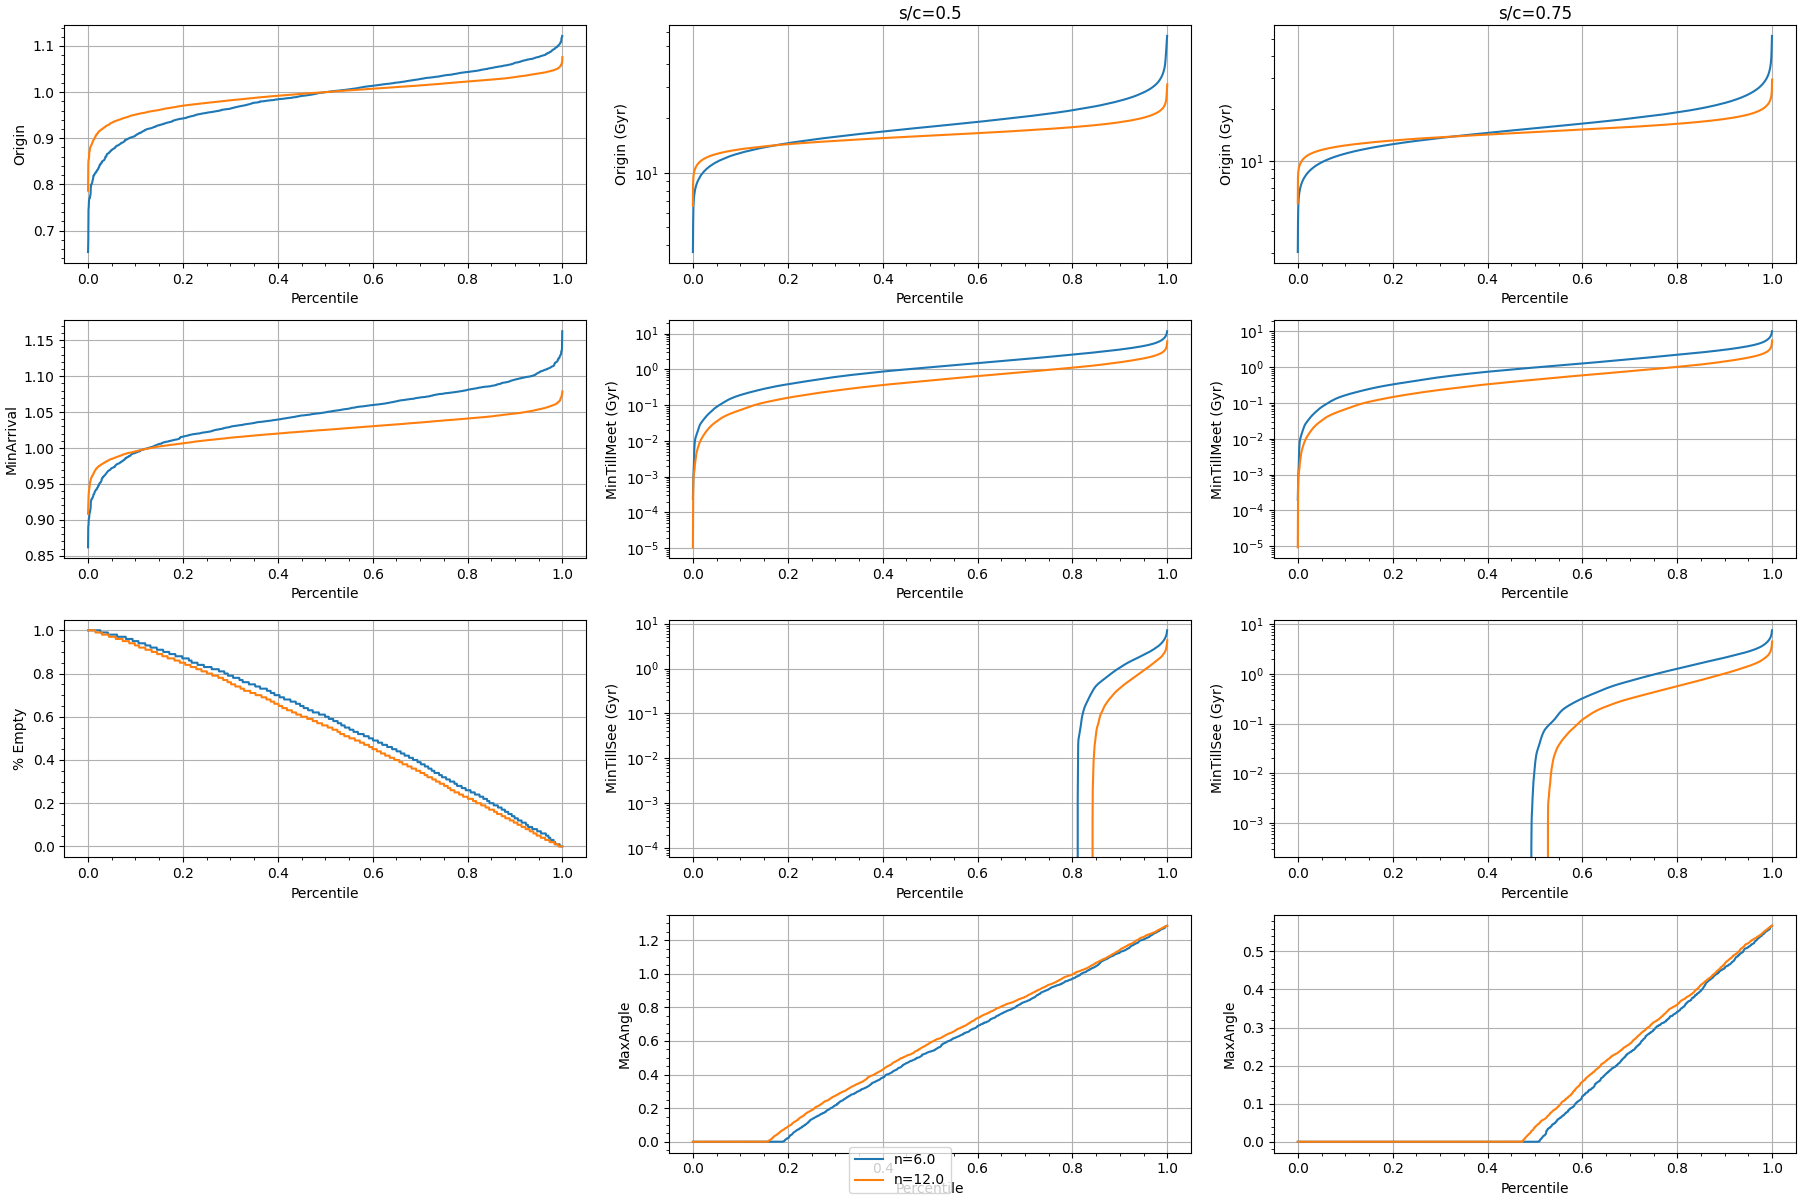
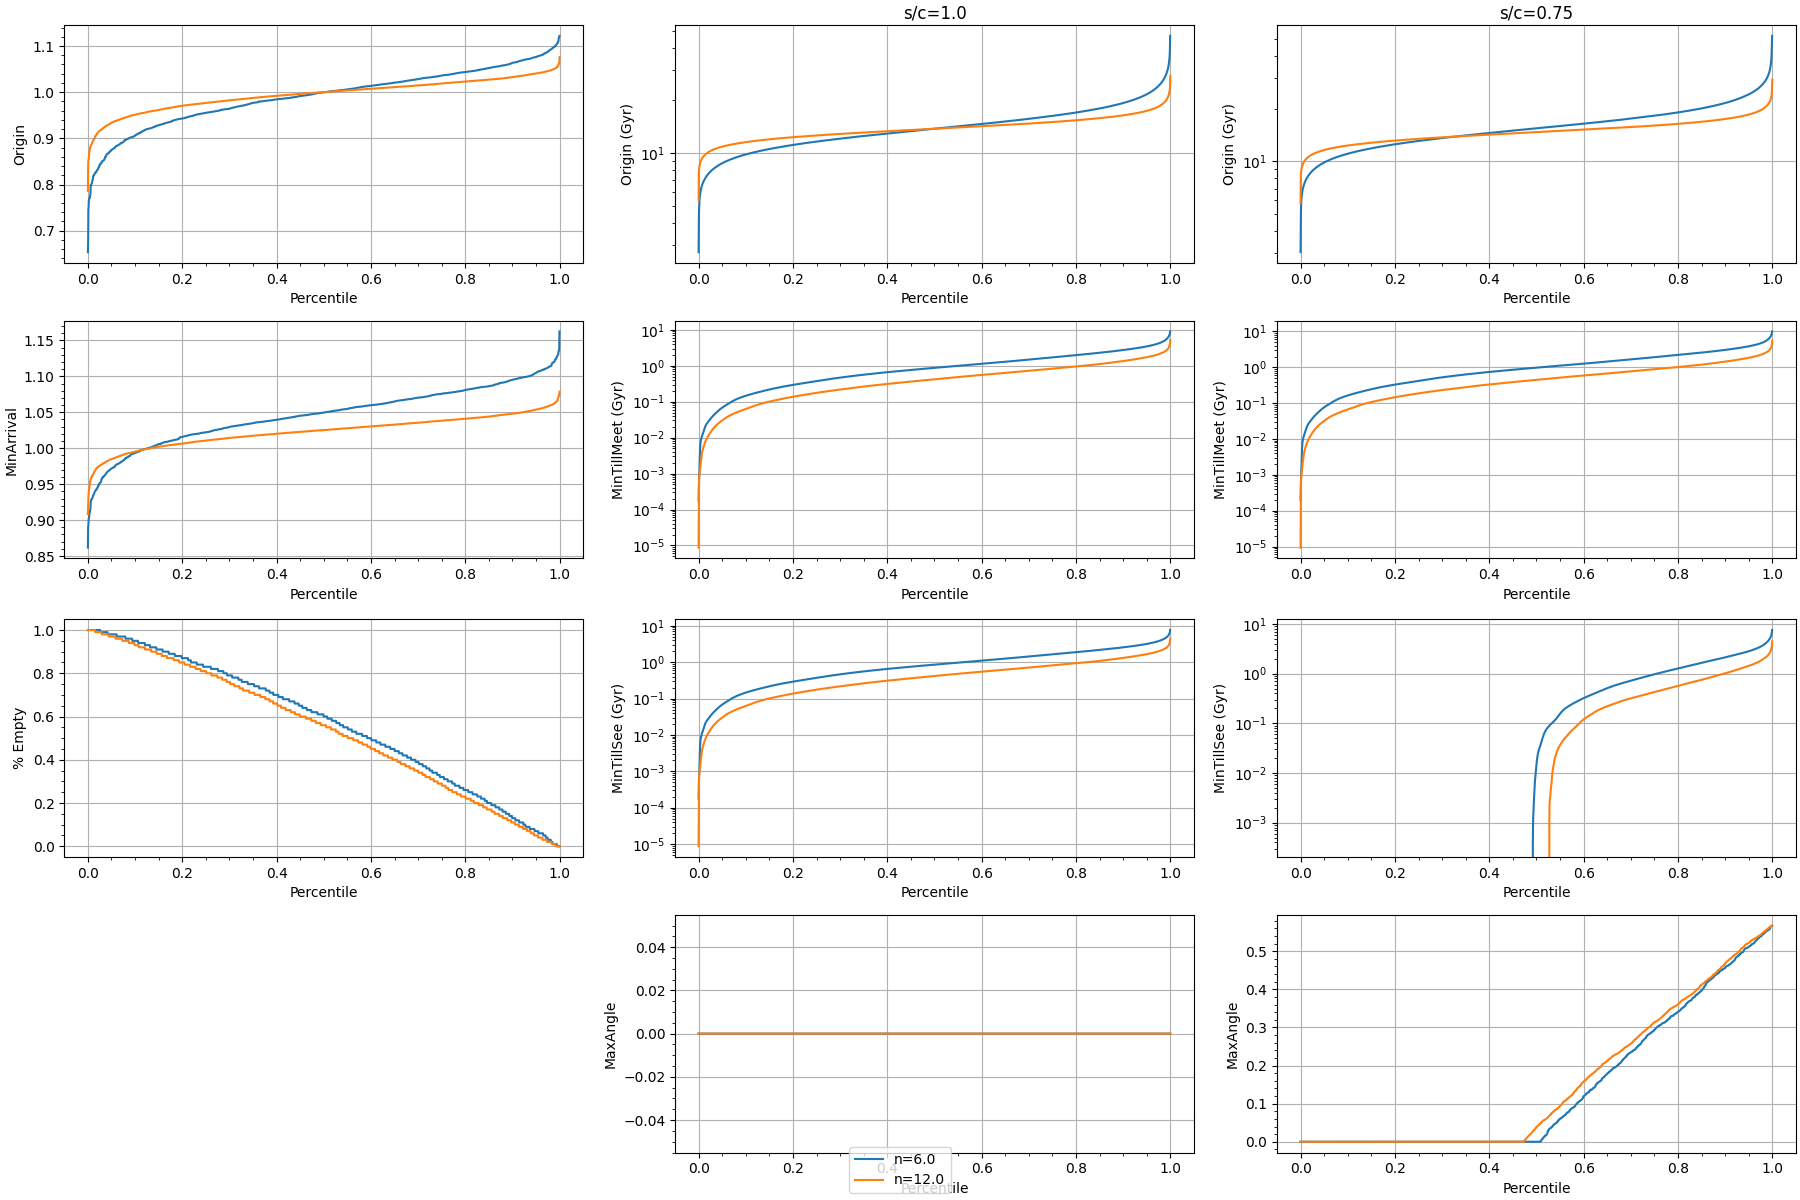
Add --volume_radii, another method of calculating civ volumes
It picks random directions and computes the radius of the civ in that
volume by binary search. It computes the volume of the civ as the
average of volumes of spheres with those radii.

diff --git a/simulate.cc b/simulate.cc
@@ -21,6 +21,21 @@ uniform_real_distribution<ld> DIST(0.0, 1.0);
 ld r01() {
   return DIST(RNG);
 }
+ld r(ld lo, ld hi) {
+  return uniform_real_distribution<ld>(lo,hi)(RNG);
+}
+
+ostream& operator<<(ostream& o, const vector<ld>& A) {
+  o << "[";
+  for(ll i=0; i<A.size(); i++) {
+    o << A[i];
+    if(i+1<A.size()) {
+      o << " ";
+    }
+  }
+  o << "]";
+  return o;
+}
 
 // https://apps.dtic.mil/dtic/tr/fulltext/u2/a066739.pdf
 // Samples from a sorted list of N Uniform(0,1) variables
@@ -64,13 +79,14 @@ struct Civ {
   ll nsee = 0; // number of other civs whose signals we see at our origin time
   ld max_angle = 0.0; // max angle among civs we see at our origin time
   ld percent_empty = 0.0; // how much of the universe is empty at our origin time
-  ld volume = 0.0; // Fraction of the universe controlled by this civ at the end of time
+  ld volume_points = 0.0; // Fraction of the universe controlled by this civ at the end of time
+  ld volume_radii = 0.0;
 };
 ostream& operator<<(ostream& o, const Civ& C) {
   for(ll i=0; i<C.V.size(); i++) {
     o << C.V[i] << ",";
   }
-  o << C.T << "," << C.min_arrival << "," << C.min_see << "," << C.nsee << "," << C.max_angle << "," << C.percent_empty << "," << C.volume;
+  o << C.T << "," << C.min_arrival << "," << C.min_see << "," << C.nsee << "," << C.max_angle << "," << C.percent_empty << "," << C.volume_points << "," << C.volume_radii;
   return o;
 }
 
@@ -182,7 +198,36 @@ vector<tuple<ld,ld,ld>> to_years(const vector<Civ>& C, ld m) {
   return ANS;
 }
 
-vector<Civ> simulate(ll D, ld speed, ld n, ll N, ld c, ld L, ll empty_samples, ll volume_samples) {
+vector<ld> add(const vector<ld>& A, const vector<ld>& B) {
+  vector<ld> C(A.size(), 0.0);
+  for(ll i=0; i<A.size(); i++) {
+    C[i] = A[i]+B[i];
+  }
+  return C;
+}
+vector<ld> scale(const vector<ld>& A, ld by) {
+  vector<ld> B(A.size(), 0.0);
+  for(ll i=0; i<B.size(); i++) {
+    B[i] = A[i]*by;
+  }
+  return B;
+}
+vector<ld> random_direction(ll D) {
+  // Return a random unit vector
+  while(true) {
+    vector<ld> d(D, 0.0);
+    ld d2 = 0.0;
+    for(ll i=0; i<D; i++) {
+      d[i] = r(-1, 1);
+      d2 += d[i]*d[i];
+    }
+    if(d2 <= 1.0) {
+      return scale(d, 1.0/sqrt(d2));
+    }
+  }
+}
+
+vector<Civ> simulate(ll D, ld speed, ld n, ll N, ld c, ld L, ll empty_samples, ll volume_points, ll volume_radii) {
   /* This is a simpler way of generating the candidate civs, but it is slower and memory-hungry.
      Instead, I generate them one-by-one by generating the origin times already in sorted
      order (see SortedRNG for more details on this).
@@ -281,7 +326,7 @@ vector<Civ> simulate(ll D, ld speed, ld n, ll N, ld c, ld L, ll empty_samples, l
     assert(c1.min_see < 1e6);
   }
 
-  for(ll t=0; t<volume_samples; t++) {
+  for(ll t=0; t<volume_points; t++) {
     vector<ld> PT = Civ::random_point(D, L);
     pair<ld,ld> best = make_pair(1e9, 0);
     for(ll i=0; i<ALIVE.size(); i++) {
@@ -295,13 +340,59 @@ vector<Civ> simulate(ll D, ld speed, ld n, ll N, ld c, ld L, ll empty_samples, l
         best = make_pair(ti, i);
       }
     }
-    ALIVE[best.second].volume += 1.0/volume_samples;
+    ALIVE[best.second].volume_points += 1.0/volume_points;
+  }
+
+  for(ll i=0; i<ALIVE.size(); i++) {
+    auto& c1 = ALIVE[i];
+    ld sum_rad_cubed = 0.0;
+    for(ll t=0; t<volume_radii; t++) {
+      vector<ld> d = random_direction(D);
+      ld lo = 0.0;
+      ld hi = 10.0*L;
+      while(lo*(1+1e-6) < hi) {
+        ld mid = (lo+hi)/2.0;
+        vector<ld> P = add(c1.V, scale(d, mid));
+
+        ld d1 = distance(c1.V, P, L);
+        ld t1 = c1.T + d1/speed;
+        bool ok = true;
+        for(ll j=0; j<D; j++) {
+          if(P[j]<0.0 || P[j]>L) { // outside universe
+            ok = false;
+          }
+        }
+
+        if(ok) {
+          for(ll j=0; j<ALIVE.size(); j++) {
+            if(t1 < ALIVE[j].T) { break; }
+            ld dj = distance(ALIVE[j].V, P, L);
+            ld tj = ALIVE[j].T + dj/speed;
+            if(tj < t1) {
+              ok = false;
+              break;
+            }
+          }
+        }
+        if(ok) {
+          lo = mid;
+        } else {
+          hi = mid;
+        }
+      }
+
+      assert(D==3);
+      ld final_rad = (lo+hi)/2.0;
+      sum_rad_cubed += pow(final_rad, 3.0);
+    }
+    c1.volume_radii = 4.0/3.0*M_PI*sum_rad_cubed / static_cast<ld>(volume_radii);
+    cerr << "volume i=" << i << " ALIVE.size=" << ALIVE.size() << " volume_points=" << c1.volume_points << " volume_radii=" << c1.volume_radii << endl;
   }
   return ALIVE;
 }
 
 int main(int, char** argv) {
-ll D = stoll(argv[1]);
+  ll D = stoll(argv[1]);
   ld n = atof(argv[2]);
   ll N = stoll(argv[3]);
   ld speed = atof(argv[4]);
@@ -311,21 +402,22 @@ ll D = stoll(argv[1]);
   ll seed = stoll(argv[8]);
   ll empty_samples = stoll(argv[9]);
   ld m = atof(argv[10]);
-  ll volume_samples = stoll(argv[11]);
+  ll volume_points = stoll(argv[11]);
+  ll volume_radii = stoll(argv[12]);
 
   RNG.seed(seed);
 
   cerr << "D=" << D << " n=" << n << " N=" << N << " speed=" << speed << " c=" << c << " L=" << L << endl;
 
   // Compute the surviving civs
-  vector<Civ> CIVS = simulate(D, speed, n, N, c, L, empty_samples, volume_samples);
+  vector<Civ> CIVS = simulate(D, speed, n, N, c, L, empty_samples, volume_points, volume_radii);
 
   // Write "civs" output file
   std::ofstream civ_out (fname+"_civs.csv", std::ofstream::out);
   for(ll i=0; i<D; i++) {
     civ_out << static_cast<char>('X'+i) << ",";
   }
-  civ_out << "OriginTime,MinArrival,MinSee,NumberSeen,MaxAngle,PctEmpty,Volume" << endl;
+  civ_out << "OriginTime,MinArrival,MinSee,NumberSeen,MaxAngle,PctEmpty,VolumePoints,VolumeRadii" << endl;
   for(auto& civ : CIVS) {
     civ_out << civ << endl;
   }

diff --git a/analyze.py b/analyze.py
@@ -18,12 +18,13 @@ parser.add_argument('--D', type=int, default=3, help='Number of spatial dimensio
 parser.add_argument('--L', type=float, default=1.0, help='The size of the universe (default 1.0)')
 parser.add_argument('--seed', type=float, default=0, help='A random seed (default 0)')
 parser.add_argument('--empty_samples', type=int, default=0, help='How precisely to estimate how full the universe is (default 0, meaning no estimate at all)')
-parser.add_argument('--volume_samples', type=float, default=0, help='How precisely to estimate volume (default 0, meaning no estimate at all)')
+parser.add_argument('--volume_points', type=str, default=0, help='How precisely to estimate volume (default 0, meaning no estimate at all)')
+parser.add_argument('--volume_radii', type=str, default=0, help='How precisely to estimate volume (default 0, meaning no estimate at all)')
 parser.add_argument('--table_1', action='store_true', help='Print a table of statistics. Run with --n 6,12 and --sc 0.5,0.75')
 parser.add_argument('--figure_12', action='store_true', help='Print the average number of galaxies each surviving civilization occupies')
 
 args = parser.parse_args()
-D,ns,N,s,m,sc,L,seed,empty_samples,volume_samples = args.D,args.n,int(float(args.N)),float(args.s),float(args.m),args.sc,args.L,args.seed,args.empty_samples,int(float(args.volume_samples))
+D,ns,N,s,m,sc,L,seed,empty_samples,volume_points,volume_radii = args.D,args.n,int(float(args.N)),float(args.s),float(args.m),args.sc,args.L,args.seed,args.empty_samples,int(float(args.volume_points)),int(float(args.volume_radii))
 
 cs = [s/float(sc_ratio) for sc_ratio in sc.split(',')]
 ns = [float(n) for n in ns.split(',')]
@@ -32,11 +33,13 @@ DATA = {}
 for c in cs:
     for n in ns:
         code_n = (n / (1.0-m)) - 1.0
-        fname = os.path.join('data', f'D={D}_n={n}_N={N:.2e}_s={s}_c={c}_L={L}_m={m}_seed={seed}_empty={empty_samples}_volume={volume_samples}')
+        fname = os.path.join('data', f'D={D}_n={n}_N={N:.2e}_s={s}_c={c}_L={L}_m={m}_seed={seed}_empty={empty_samples}_volume_points={volume_points}_volume_radii={volume_radii}')
         if os.path.exists(f'{fname}_civs.csv') and os.path.exists(f'{fname}_years.csv'):
             print(f'Reusing {fname}_civs.csv and {fname}_years.csv')
         else:
-            subprocess.check_output(f'g++ -std=c++17 -O3 -Wall -Werror -Wextra -Wshadow -Wno-sign-compare simulate.cc && ./a.out {D} {code_n} {N} {s} {c} {L} {fname} {seed} {empty_samples} {m} {volume_samples}', shell=True)
+            cmd = f'g++ -std=c++17 -O3 -Wall -Werror -Wextra -Wshadow -Wno-sign-compare simulate.cc && ./a.out {D} {code_n} {N} {s} {c} {L} {fname} {seed} {empty_samples} {m} {volume_points} {volume_radii} 2>{fname}.out'
+            print(cmd)
+            subprocess.check_output(cmd, shell=True)
             print(f'Generated {fname}_civs.csv and {fname}_years.csv')
 
         # Read CIV data
@@ -57,7 +60,7 @@ c_str = ','.join([str(c) for c,n in DATA.keys()])
 def getLabels():
     return ['Origin', 'MinArrival', 'MinSee',
             'Origin (Gyr)', 'MinTillMeet (Gyr)', 'MinTillSee (Gyr)',
-            'MaxAngle', '% Empty']
+            'MaxAngle', '% Empty', 'Volume (Points)', 'Volume (Radii)']
 
 def getData(CIVS, YEARS, label):
     civs_x = [float(i)/len(CIVS) for i in range(len(CIVS))]
@@ -88,10 +91,14 @@ def getData(CIVS, YEARS, label):
     elif label == '% Empty':
         x = civs_x
         y = list(reversed(sorted([float(row['PctEmpty']) for row in CIVS])))
-    elif label == 'Volume':
+    elif label == 'Volume (Points)':
         GALAXIES_IN_UNIVERSE = 2e6*pow(13.8/T50, 3)*pow(c/s, 3) / len(CIVS)
         x = civs_x
-        y = sorted([float(row['Volume'])*GALAXIES_IN_UNIVERSE for row in CIVS])
+        y = sorted([float(row['VolumePoints'])*GALAXIES_IN_UNIVERSE for row in CIVS])
+    elif label == 'Volume (Radii)':
+        GALAXIES_IN_UNIVERSE = 2e6*pow(13.8/T50, 3)*pow(c/s, 3) / len(CIVS)
+        x = civs_x
+        y = sorted([float(row['VolumeRadii'])*GALAXIES_IN_UNIVERSE for row in CIVS])
     else:
         assert False, f'Unknown label={label}'
     return (x,y)
@@ -99,7 +106,7 @@ def getData(CIVS, YEARS, label):
 
 if args.table_1:
     # Table 1
-    k1 = (2.0, 6.0)
+    k1 = (1.0, 6.0)
     k2 = (4.0/3.0, 12.0)
     print('Name,p1,p25,p75,p1,p25,p75')
     for label in getLabels():
@@ -139,12 +146,21 @@ fig, p = plt.subplots(4,len(cs)+1,constrained_layout=True,figsize=(18,12))
 plot(p[0,0], 'Origin', cs[0], log=False)
 plot(p[1,0], 'MinArrival', cs[0], log=False)
 
+has_volume = volume_points or volume_radii
+
 # Optionally plot Volume and % Empty
-if volume_samples and empty_samples:
-    plot(p[2,0], 'Volume', cs[0], log=True)
+if has_volume and empty_samples:
+    if volume_points:
+        plot(p[2,0], 'Volume (Points)', cs[0], log=True)
+    if volume_radii:
+        plot(p[2,0], 'Volume (Radii)', cs[0], log=True)
     plot(p[3,0], '% Empty', cs[0], log=False)
-elif volume_samples:
-    plot(p[2,0], 'Volume', cs[0], log=True)
+elif has_volume:
+    if volume_points:
+        plot(p[2,0], 'Volume (Points)', cs[0], log=True)
+    if volume_radii:
+        plot(p[2,0], 'Volume (Radii)', cs[0], log=True)
+    plot(p[3,0], '% Empty', cs[0], log=False)
     fig.delaxes(p[3,0])
 elif empty_samples:
     plot(p[2,0], '% Empty', cs[0], log=False)
